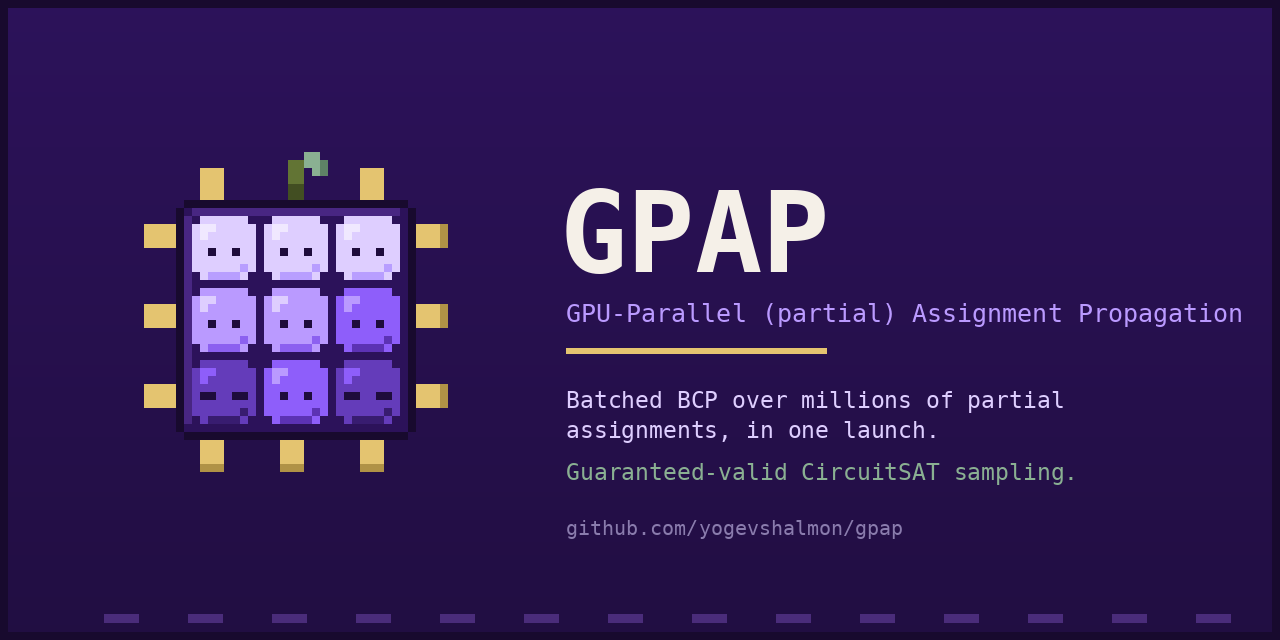
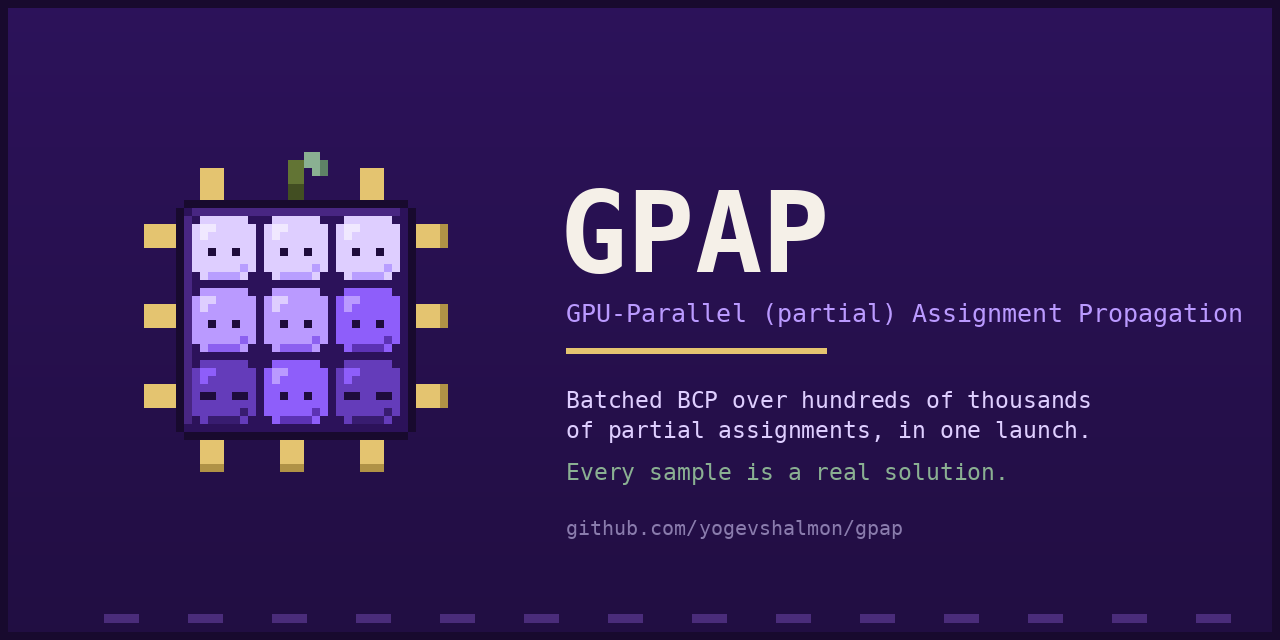
readme: update wordmark and demo GIF links; improve social card text for accuracy

Changed region(s): [[0.4375, 0.5938, 0.8438, 0.6875], [0.4375, 0.7188, 0.8438, 0.75]]

diff --git a/docs/assets/tools/make_demo_gif.py b/docs/assets/tools/make_demo_gif.py
@@ -108,7 +108,9 @@ frames, delays = [], []
 
 # 1. typing the command, two characters a frame, across the shell continuation
 for r, (_, text) in enumerate(CMD_ROWS):
-    for i in range(0, len(text) + 1, 2):
+    # two characters a frame, and then the full line: stepping by two over an odd-length
+    # command left the last frame one character short of what it then cut to.
+    for i in sorted({*range(0, len(text), 2), len(text)}):
         im, d = blank()
         draw_cmd(d, r, i)
         cursor(d, r, 2 + i)
@@ -141,7 +143,16 @@ for on, ms in ((1, 1400), (0, 520), (1, 520), (0, 520), (1, 1600)):
     frames.append(im)
     delays.append(ms)
 
-pal = frames[0].quantize(colors=64, method=Image.MEDIANCUT)
+# THE PALETTE IS PINNED, NOT SAMPLED. frames[0] is the screen BEFORE a single character has
+# been typed, so median cut over it never sees CREAM, MUTED or LAV_HI: the command rendered
+# lavender instead of near-white and the output leaf-green instead of muted purple. Every
+# colour the cast uses gets an exact entry, and median cut is left only the antialiased greys.
+brand = list(dict.fromkeys([BG, BAR, BORDER, GOLD, CREAM, LAV_HI, LAV, VIOLET, MUTED, LEAF, DIM]))
+spare = 64 - len(brand)
+entries = [c for rgb in brand for c in rgb]
+entries += frames[-1].quantize(colors=spare, method=Image.MEDIANCUT).getpalette()[:3 * spare]
+pal = Image.new("P", (1, 1))
+pal.putpalette(entries + [0] * (768 - len(entries)))
 frames = [f.quantize(palette=pal, dither=Image.NONE) for f in frames]
 out = str(ROOT / "docs/assets/demo/gpap_demo.gif")
 frames[0].save(out, save_all=True, append_images=frames[1:], duration=delays,

diff --git a/docs/assets/tools/make_social_card.py b/docs/assets/tools/make_social_card.py
@@ -44,9 +44,11 @@ d.text((x + 6, 298), "GPU-Parallel (partial) Assignment Propagation",
 d.rectangle([x + 6, 348, x + 6 + 260, 353], fill=GOLD)
 
 body = ImageFont.truetype(MONO, 23)
-d.text((x + 6, 386), "Batched BCP over millions of partial", font=body, fill=LAV_HI)
-d.text((x + 6, 416), "assignments, in one launch.", font=body, fill=LAV_HI)
-d.text((x + 6, 458), "Guaranteed-valid CircuitSAT sampling.", font=body, fill=LEAF)
+# The batch cap is 262,144 per launch, so "millions" is not ours to claim; and CircuitSAT is
+# the rivals' banner, not a name for us. Both match the README.
+d.text((x + 6, 386), "Batched BCP over hundreds of thousands", font=body, fill=LAV_HI)
+d.text((x + 6, 416), "of partial assignments, in one launch.", font=body, fill=LAV_HI)
+d.text((x + 6, 458), "Every sample is a real solution.", font=body, fill=LEAF)
 
 d.text((x + 6, 516), "github.com/yogevshalmon/gpap",
        font=ImageFont.truetype(MONO, 20), fill=(0x8A, 0x7C, 0xAD))

diff --git a/README.md b/README.md
@@ -3,7 +3,7 @@
 <picture>
   <source media="(prefers-color-scheme: dark)"  srcset="docs/assets/wordmark/gpap_wordmark_dark.png">
   <source media="(prefers-color-scheme: light)" srcset="docs/assets/wordmark/gpap_wordmark_light.png">
-  <img src="docs/assets/wordmark/gpap_wordmark_dark.png" width="590"
+  <img src="https://raw.githubusercontent.com/yogevshalmon/gpap/v0.1.0/docs/assets/wordmark/gpap_wordmark_light.png" width="590"
        alt="GPAP — the wordmark beside the logo, a 3x3 grid of purple cells inside a chip die with gold pins">
 </picture>
 
@@ -22,8 +22,11 @@ solution**. No gradient, no rounding, no repair pass.
 [**Docs**](docs/) · [**Engine internals**](docs/ENGINE.md) · [**Python API**](docs/PYTHON_API.md) ·
 [**C++ API**](cpp/README.md) · [**Benchmarking**](docs/BENCHMARKING.md) · [**Artifact**](ARTIFACT.md)
 
-<img src="docs/assets/demo/gpap_demo.gif" width="830"
-     alt="Terminal recording: gpap sample runs on b10.bench unrolled 25 cycles, encodes it to 7,851 variables and 19,682 clauses, and writes 50,000 input stimuli in under seven seconds at about 21,000 samples per second">
+<picture>
+  <source srcset="docs/assets/demo/gpap_demo.gif">
+  <img src="https://raw.githubusercontent.com/yogevshalmon/gpap/v0.1.0/docs/assets/demo/gpap_demo.gif" width="830"
+       alt="Terminal recording: gpap sample runs on b10.bench unrolled 25 cycles, encodes it to 7,851 variables and 19,682 clauses, and writes 50,000 input stimuli in under seven seconds at about 21,000 samples per second">
+</picture>
 
 <sub>Pinning <code>b10</code> to a rare reachable state, 25 cycles deep, and writing 50,000 input
 stimuli that reach it.</sub>
@@ -61,11 +64,13 @@ circuits, unrolled and pinned:
 
 | GPAP's sampling rate | |
 |---|---|
-| vs **CMSGen** — the CPU sampler GPAP parallelizes, on the identical CNF | **~100× – 1,200×** |
+| vs **CMSGen** — the CPU sampler GPAP parallelizes, on the identical CNF | **~70× – 1,600×** |
 | vs **DEMOTIC** and **Recurrent-CircuitSAT** — GPU gradient samplers, on their own instances | **2× – 170×** |
 
 > [!NOTE]
-> Geometric means per benchmark set, on an NVIDIA L4. The spread is real, not a rounding choice:
+> Geometric means per benchmark set, on an NVIDIA L4 with an Intel Xeon at 2.20 GHz — CMSGen
+> is single-core, so the CPU is as much a part of these ratios as the GPU is. The spread is
+> real, not a rounding choice:
 > the ratio depends on the instance and on how rare the pinned target is. Charging setup to both
 > sides brings the CMSGen figures down by roughly 2–4×. Every instance, every excluded cell and
 > every case where a tool emitted nothing is listed in
@@ -219,7 +224,7 @@ Examples for both faces in [`cpp/examples/`](cpp/examples/) and [`examples/`](ex
 <picture>
   <source media="(prefers-color-scheme: dark)"  srcset="docs/assets/animation/gpap_propagate_dark.gif">
   <source media="(prefers-color-scheme: light)" srcset="docs/assets/animation/gpap_propagate_light.gif">
-  <img src="docs/assets/animation/gpap_propagate_dark.gif" width="675"
+  <img src="https://raw.githubusercontent.com/yogevshalmon/gpap/v0.1.0/docs/assets/animation/gpap_propagate_light.gif" width="675"
        alt="Animation of the engine's core idea, in three acts. Throughout, the assignment sits on the left as a green vine with a node per variable: a gold leaf marks a variable decided at random, a green leaf one forced by propagation, a bare node one never touched. The vine runs level over its own nodes, steps down once the assignment ends, and carries on at that lower level to the bunch, which hangs from it by its own stem — so the two are one plant rather than two objects near each other, with the plant's one leaf sitting on the vine just before it. On the right is the formula, a bunch of grapes in which every row is a clause and every berry a literal. In the first act a real propagation trace runs, and the vine moves with it: a decision lights a berry gold and grows a gold leaf in the same frame, the literals that decision falsifies shrink and darken wherever they occur, and a clause left with one survivor forces it — a white flash and a green leaf — which falsifies more. It halts at a fixpoint with four clauses satisfied, one still open with two live literals, and most of the formula never touched. In the second act each clause row collapses onto a single cell, because under one assignment a clause's whole state is one packed word; the five stack into an even column, and that column unfolds into a row beside the vine. In the third act rows multiply downwards until the die holds five, each a vine with its own decisions and its own row of clause states, now plugged into the die's pins, all propagating in the same launch and each stopping at its own fixpoint while the row just watched holds the one it already reached, so no vine fills and no row ever lights up completely.">
 </picture>
 
@@ -304,7 +309,7 @@ pytest                             # full suite (GPU tests skip off-CUDA; `slow`
 <picture>
   <source media="(prefers-color-scheme: dark)"  srcset="docs/assets/animation/gpap_idle_wake_dark.gif">
   <source media="(prefers-color-scheme: light)" srcset="docs/assets/animation/gpap_idle_wake_light.gif">
-  <img src="docs/assets/icon_wake/gpap_icon_wake_256.png" width="96"
+  <img src="https://raw.githubusercontent.com/yogevshalmon/gpap/v0.1.0/docs/assets/icon_wake/gpap_icon_wake_256.png" width="96"
        alt="The GPAP chip mark, its nine cells blinking">
 </picture>
 </div>
